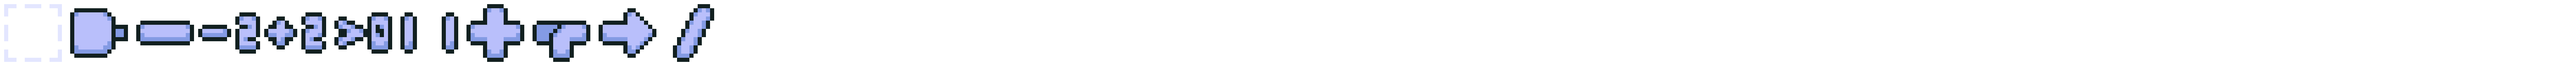
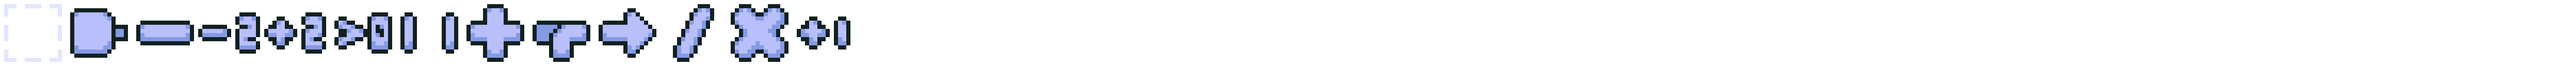
changes
syntax highlighting, bugfixes.

Changed region(s): [[0.2812, 0.0625, 0.3438, 0.9375]]

diff --git a/js/layers/circuit_layer.js b/js/layers/circuit_layer.js
@@ -603,7 +603,7 @@ ma_puzzledata={
     {
       imgpos: 2,
       title: "sub",
-      desc: "send I0 minus I1 to O0\n(subtraction is done with the logic slate)",
+      desc: "send I0 - I1 to O0\n(subtraction is done with the logic slate)",
       inputs: [
         [12, 0, -50],
         [ 4, 4,-150]
@@ -631,12 +631,12 @@ ma_puzzledata={
     {
       imgpos: 10,
       title: "divide",
-      desc: "send I0 divded by I1 to O0",
+      desc: "send I0 / I1 to O0",
       inputs: [[],[]],
       outputs: [[]],
       randomized_test(){
         let a=ma_r(99)
-        let b=ma_r(99)
+        let b=ma_r(98)+1
         return {i:[[a],[b]],o:[[new Fraction(a,b)]]}
       },
       rtests_required: 30
@@ -666,6 +666,18 @@ ma_puzzledata={
       rtests_required: 30
     },
     {
+      imgpos: 12,
+      title: "increment",
+      desc: "send I0 + 1 to O0",
+      inputs: [[]],//get pushed to all free wires with a blue io port next to them. (order goes up left right bottom)
+      outputs: [[]],//get pulled to fromm all wires with an orange io port next to them. (order goes up left right bottom)
+      randomized_test(){
+        let v=ma_r(99)
+        return {i:[[v]],o:[[v+1]]}
+      },
+      rtests_required: 30
+    },
+    {
       imgpos: 6,
       title: "absolute",
       desc: "for each number from I0, send the absolute value to O0",
@@ -680,7 +692,7 @@ ma_puzzledata={
     {
       imgpos: 7,
       title: "add",
-      desc: "add I0 to I1, send to O0",
+      desc: "send I0 + I1 to O0",
       inputs: [
         [ 4,-8, 4],
         [90, 4,-8]
@@ -690,6 +702,22 @@ ma_puzzledata={
         let a=ma_r(99)
         let b=ma_r(99)
         return {i:[[a],[b]],o:[[a+b]]}
+      },
+      rtests_required: 30
+    },
+    {
+      imgpos: 11,
+      title: "multiply",
+      desc: "send I0 x I1 to O0",
+      inputs: [
+        [],
+        []
+      ],
+      outputs: [[]],
+      randomized_test(){
+        let a=ma_r(99)
+        let b=ma_r(99)
+        return {i:[[a],[b]],o:[[a*b]]}
       },
       rtests_required: 30
     },
@@ -728,7 +756,6 @@ for (const [rowi,row] of Object.entries(ma_puzzledata)){
     for (const port of v.outputs){
       for (let i in port){
         port[i]=new Fraction(i)
-        console.log(port[i])
       }
     }
   }
@@ -737,15 +764,27 @@ for (const [rowi,row] of Object.entries(ma_puzzledata)){
 ma_maxcooldown=20
 ma_cooldown=0
 
+function ma_syntaxhighlight(desc){
+  desc=desc.replaceAll(/\</g,"&lt;")
+  desc=desc.replaceAll(/\>/g,"&gt;")
+  desc=desc.replaceAll(/\=/g,"&equals;")
+  desc=desc.replaceAll(/\+(?![0-9])/g,"&#43;")
+  desc=desc.replaceAll(/\//g,"&#47;")
+  desc=desc.replaceAll(/\x/g,"&#120;")
+  desc=desc.replaceAll(/\-(?![0-9])/g,"&minus;")
+  desc=desc.replaceAll(/(I[0-9]+)/g,"<span style='color:\#eb7d34;background-color:\#222222;padding:1px 4px;border-radius:3px'>$&</span>")
+  desc=desc.replaceAll(/(O[0-9]+)/g,"<span style='color:\#3496eb;background-color:\#222222;padding:1px 4px;border-radius:3px'>$&</span>")
+  desc=desc.replaceAll(/(?<![IO#0-9a-f])([-+]?[0-9]+)(?!(px|[0-9]))/g
+  ,"<span style='color:#59c135;background-color:#222222;padding:1px 4px;border-radius:3px'>$1</span>")
+  desc=desc.replaceAll(/((&lt;)|(&gt;)|(&#43;)|(&minus;)|(&#47;)|(&#120;)|(&equals;))/g,"<span style='color:\#bc4a9b'>$1</span>")
+  return desc
+}
+
 function ma_loadpuzzle(id){
   let puz=ma_puzzledata[id]
   player.ma.puzzlename=puz.title
   let desc=puz.desc
-  desc=desc.replaceAll(/([\<\>\=])/g,"!!$1")
-  desc=desc.replaceAll(/([^IO])([-\+]?)([0-9]+)/g,"$1<span style='color:\#59c135;background-color:\#222222;padding:1px 4px;border-radius:3px'>$2$3</span>")
-  desc=desc.replaceAll(/\!\!([\<\>\=])/g,"<span style='color:\#bc4a9b'>$1</span>")
-  desc=desc.replaceAll(/(I[0-9]+)/g,"<span style='color:\#eb7d34;background-color:\#222222;padding:1px 4px;border-radius:3px'>$&</span>")
-  desc=desc.replaceAll(/(O[0-9]+)/g,"<span style='color:\#3496eb;background-color:\#222222;padding:1px 4px;border-radius:3px'>$&</span>")
+  desc=ma_syntaxhighlight(desc)
   player.ma.puzzledesc=desc
   player.ma.inputports=[]
   for (l=0;l<puz.inputs.length;l++){

diff --git a/js/layers/factory_layer.js b/js/layers/factory_layer.js
@@ -50,7 +50,7 @@ class FA_factory {
     if(!this.tiles[id])this.create(id,"empty")
     return this.tiles[id]
   }
-  update_io(){
+  update_io(){  
     this.recalc_networks()
     for(let l=0;l<100;l++){
       this.tick_sim()
@@ -68,7 +68,7 @@ class FA_factory {
       if(machine.network_target){
         machine.outputsides=0
         for (let l=0;l<=3;l++){
-          if (machine.open(l) && machine.io_port(l+2)){
+          if (machine.open(l) && machine.io_port(l+2)=="push"){
             machine.outputsides+=1
           }
         }
@@ -103,13 +103,16 @@ class FA_factory {
         recievable[item]=recievable[item].add(amount)
       }
       if (machine.calc_transformation){
+        console.log(machine.name)
         let io=machine.calc_transformation()
         let transforms=new Decimal(io.maxtransforms)
         for (let input of io.inputs){
           recievable[input.r]??=new Decimal(0)
+          console.log(`${recievable[input.r]} / ${input.a} (${transforms.toString()})`)
           transforms=transforms.min(recievable[input.r].div(input.a))
         }
         for (let output of io.outputs){
+          console.log(`${output.r} x ${transforms.mul(output.a).toString()} (${transforms.toString()})`)
           machine.sends[output.r]=transforms.mul(output.a)
         }
 
@@ -132,6 +135,7 @@ class FA_factory {
     for (let network of this.networks){
       for (let input of network.inputs){
         for (let [item,amount] of Object.entries(input.sends)){
+          console.log(input.name,input.outputsides)
           network.additem(item,new Decimal(amount).div(input.outputsides))
         }
       }
@@ -600,6 +604,7 @@ addLayer("fa",{
           ]],
           ["row",[
             ["clickable","update_io"],
+            ["clickable","recalc_networks"],
             ["clickable","tick_sim"],
           ]],
           ["row",[
@@ -652,6 +657,13 @@ addLayer("fa_designer",{
         getGridData("fa",player.fa.pos).factory.update_io()
       },
       title: "update io"
+    },
+    "recalc_networks": {
+      canClick: true,
+      onClick(){
+        getGridData("fa",player.fa.pos).factory.recalc_networks()
+      },
+      title: "recalc networks"
     },
     "destroy_selected":{
       canClick(){
